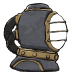
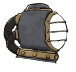
fix(crew): the heavy bell nods on a rubber gasket
The bell's dome, with its brass neck ring, hoses and the face behind
its glass, turns whole with the look about a new rubber gasket under the
ring; the shoulder piece stays on the torso and the gasket alone bends
between them. The bell is now three pictures (dome, shoulder piece,
gasket), so neither brass nor steel stretches; the lamp and scanner ride
on the dome. A bent picture's band may now be a helmet's own height.

Changed region(s): [[0.1053, 0.7778, 0.7895, 1.0]]

diff --git a/tools/anime-art/subjects/helmets.js b/tools/anime-art/subjects/helmets.js
@@ -44,6 +44,36 @@ function ringed(basic) {
   return { ball, collar: HeroKit.keep(HeroKit.part({ w: 13, h: 12, draw: basic.draw }), ring.d, Anime.LINE.outer) };
 }
 
+/** How far the bell's rubber gasket shows below its brass neck ring, in the head's pixels. */
+const GASKET = 0.9;
+
+/** A path moved down by dy: the tracer writes only absolute M, C and Z, so its numbers come in pairs. */
+const lowered = (d, dy) => {
+  let k = 0;
+  return d.replace(/-?\d*\.?\d+/g, (v) => String(k++ % 2 ? +(+v + dy).toFixed(3) : v));
+};
+
+/** Above this row of the head the bell is its dome, below it its shoulder piece, but for the brass neck ring and the gasket between. */
+const DOME = 10.9;
+
+/**
+ * The bell in three parts (helmets-fit-the-suit), so its dome nods on a rubber gasket as the basic helmet's ball on its seal: the
+ * dome with its brass neck ring and hoses; the shoulder piece, the ring's and the gasket's place left open in it; and the gasket,
+ * the ring's own shape and that shape lowered by GASKET, in the hoses' rubber, under the ring and showing below it.
+ */
+function belled(bell) {
+  const brass = bell.ops.filter((o) => o.mat === 'brass'), width = (o) => ((b) => b[2] - b[0])(bounds(o.d));
+  const ring = brass.reduce((a, b) => (width(b) > width(a) ? b : a)), low = lowered(ring.d, GASKET), rim = Anime.LINE.outer;
+  const top = `M-4 -4L17 -4L17 ${DOME}L-4 ${DOME}Z`, metal = brass.filter((o) => o.op !== 'line').map((o) => o.d);
+  const [shell, visor] = HeroKit.cut(bell.draw, bell.glass, []);
+  // The ink drawn on the ring, as its clasp's edge, goes with it.
+  const [rx0, ry0, rx1, ry1] = bounds(ring.d), inked = bell.ops.filter((o) => o.op === 'line' && ((b) => b[0] >= rx0 && b[2] <= rx1 && b[1] >= ry0 && b[3] <= ry1)(bounds(o.d))).map((o) => o.d);
+  HeroKit.within(shell, { keep: [top, ring.d], back: [...metal, ...inked] }, rim);
+  const collar = HeroKit.within(HeroKit.part({ w: 13, h: 12, draw: bell.draw }), { keep: ['M-4 -4L17 -4L17 17L-4 17Z'], drop: [top, ring.d, low, ...metal, ...inked] }, rim);
+  const seal = { ...ring, mat: 'tube', lite: [], d: ring.d + low };
+  return { shell, visor, collar, seal: HeroKit.part({ w: 13, h: 12, draw: Traced.drawer('heavyHelmet', [seal], bell.k) }) };
+}
+
 Subjects.helmets = function () {
   const basic = worn('helmet'), [, visor] = HeroKit.cut(basic.draw, basic.glass, []), { ball, collar } = ringed(basic);
   out('hero_helmet_shell', ball);
@@ -51,9 +81,11 @@ Subjects.helmets = function () {
   out('hero_visor', visor);
   out('hero_helmet', Anime.bake({ w: 13, h: 12, light: [0, -1], ...CARD, draw: basic.draw }));
   out('items/helmet', Traced.icon('helmet'));
-  const bell = worn('heavyHelmet'), [bellShell, bellVisor] = HeroKit.cut(bell.draw, bell.glass, []);
-  out('hero_heavyHelmet_shell', bellShell);
-  out('hero_heavyHelmet_visor', bellVisor);
+  const bell = belled(worn('heavyHelmet'));
+  out('hero_heavyHelmet_shell', bell.shell);
+  out('hero_heavyHelmet_visor', bell.visor);
+  out('hero_heavyHelmet_collar', bell.collar);
+  out('hero_heavyHelmet_seal', bell.seal);
   out('items/heavyHelmet', Traced.icon('heavyHelmet'));
 };
 

diff --git a/tools/anime-art/subjects/hero.js b/tools/anime-art/subjects/hero.js
@@ -893,7 +893,28 @@ function keep(c, d, rim = 0) {
   return c;
 }
 
+/**
+ * A part's picture c cut to a piece of its drawing (helmets-fit-the-suit): kept within the paths keep, less the paths drop, with
+ * the paths back in it again; each path filled on its own, so their windings never cut holes, and stroked rim wide to take its ink.
+ */
+function within(c, { keep = [], drop = [], back = [] }, rim = 0) {
+  const mask = canvas(c.width, c.height), m = mask.getContext('2d');
+  m.setTransform(Px, 0, 0, Px, Margin * Px, Margin * Px);
+  (m.lineWidth = rim), (m.lineJoin = 'round');
+  const paint = (ds) => ds.forEach((d) => { const p = new Path2D(d); m.fill(p); if (rim) m.stroke(p); });
+  paint(keep);
+  m.globalCompositeOperation = 'destination-out';
+  paint(drop);
+  m.globalCompositeOperation = 'source-over';
+  paint(back);
+  const x = c.getContext('2d');
+  x.globalCompositeOperation = 'destination-in';
+  x.drawImage(mask, 0, 0);
+  x.globalCompositeOperation = 'source-over';
+  return c;
+}
+
 // The kit, for a subject drawing more gear on the hero's boxes (catchergear.js).
-window.HeroKit = { limb, wedge, folds, mat, glove, boot, BACK_TORSO, GL, band, BST, BELL_BRASS, BELL_RUBBER, rustAt, hose, port, UNLIT, rivet, torsoDeep, part, lightPicture, cut, keep };
+window.HeroKit = { limb, wedge, folds, mat, glove, boot, BACK_TORSO, GL, band, BST, BELL_BRASS, BELL_RUBBER, rustAt, hose, port, UNLIT, rivet, torsoDeep, part, lightPicture, cut, keep, within };
 })();
 

diff --git a/game/features/crew/logic/BodyFit.cs b/game/features/crew/logic/BodyFit.cs
@@ -26,8 +26,12 @@ public enum HelmetTurn
 /// drawn over the near arm's shoulder while the rest stays under the arm. All in the helmet picture's pixels, its 13 × 12 box,
 /// the neck at <see cref="BodyFit.Neck"/>. With no cut, the collar is a picture of its own (<c>hero_&lt;helmet&gt;_collar</c>).
 /// Its shell's bottom fades out into the suit over the rows <paramref name="Fade"/>, whole at the first, none at the second, if given.
+/// A soft one bends in a <paramref name="Band"/> that tall round its pivot: what is above it turns whole, what is below stays. A
+/// <paramref name="Sealed"/> one has a rubber seal of its own between shell and collar (<c>hero_&lt;helmet&gt;_seal</c>), bent in
+/// that band as its shell turns: the bell's gasket.
 /// </summary>
-public sealed record HelmetFit(HelmetTurn Turn, double PivotX, double PivotY, double? Cut, (double Whole, double None)? Fade = null)
+public sealed record HelmetFit(
+    HelmetTurn Turn, double PivotX, double PivotY, double? Cut, (double Whole, double None)? Fade = null, double Band = BentLimb.Band, bool Sealed = false)
 {
     /// <summary>
     /// The angles its parts are turned by as the head looks <paramref name="look"/> (radians, as the figure turns its nodes), each
@@ -42,6 +46,12 @@ public sealed record HelmetFit(HelmetTurn Turn, double PivotX, double PivotY, do
         HelmetTurn.Ring => (look, look, 0, look),
         _ => (0, 0, 0, 0),
     };
+
+    /// <summary>
+    /// How far its seal (<see cref="Sealed"/>) is bent as the head looks <paramref name="look"/>, about the pivot in its
+    /// <see cref="Band"/>: as far as its shell turns over it, or with the rest of a soft one; its base stays with the collar.
+    /// </summary>
+    public double SealBy(double look) => TurnsBy(look) is var (_, shell, bend, _) ? shell + bend : 0;
 }
 
 /// <summary>How the suit's parts fit together where they meet (helmets-fit-the-suit): client art, not tunables.</summary>
@@ -58,6 +68,12 @@ public static class BodyFit
 
     /// <summary>The middle of the basic helmet's rubber seal (rows 10 to 13.5): it bends there, the ball nodding on it.</summary>
     public const double SealY = 11.75;
+
+    /// <summary>
+    /// The middle of the heavy bell's rubber gasket where it shows under its brass neck ring (tools/anime-art helmets.js,
+    /// <c>GASKET</c>), and the band it bends in: the dome and ring nod whole above it, the shoulder piece stays below.
+    /// </summary>
+    public const double GasketY = 11.8, GasketBand = 1.4;
 
     /// <summary>The head's middle (hero_head.png): a bolted helmet's head turns about it inside (<see cref="HelmetTurn.Bolted"/>), not out through the shell.</summary>
     private const double HeadX = 5.5, HeadY = 6.5;
@@ -78,8 +94,9 @@ public static class BodyFit
         [Stillwake.Content.Helmet.Basic] = new(HelmetTurn.Soft, NeckX, SealY, Cut: null),
         // The hood's last roll, under its plate, bends; its bottom fades into the suit rather than end in a line across it.
         [Stillwake.Content.Helmet.Quilted] = Hood with { Fade = (13.6, 14.6) },
-        // The bell's brass collar and shoulder piece over the arm; the piece's straight edge, cut by its reference, fades out.
-        [Stillwake.Content.Helmet.Heavy] = new(HelmetTurn.Bolted, HeadX, HeadY, Cut: 11, Fade: (13.8, 15)),
+        // The dome nods whole with its brass ring on its rubber gasket, which bends, as the basic helmet's ball on its seal; its
+        // shoulder piece stays, over the arm, its straight edge, cut by its reference, fading out.
+        [Stillwake.Content.Helmet.Heavy] = new(HelmetTurn.Ring, NeckX, GasketY, Cut: null, Fade: (13.8, 15), Band: GasketBand, Sealed: true),
         ["catcherHood"] = Hood,
         ["catcherCap"] = Hood,
         ["catcherBeak"] = Hood,
@@ -103,7 +120,7 @@ public static class BodyFit
     /// <summary><paramref name="helmet"/>'s <paramref name="fit"/> turning <paramref name="turn"/>, about the pivot that way takes.</summary>
     private static HelmetFit As(string helmet, HelmetFit fit, HelmetTurn turn) => turn == fit.Turn ? fit : turn switch
     {
-        HelmetTurn.Soft => fit with { Turn = turn, PivotX = NeckX, PivotY = SoftY },
+        HelmetTurn.Soft => fit with { Turn = turn, PivotX = NeckX, PivotY = SoftY, Band = BentLimb.Band },
         HelmetTurn.Ring when helmet == Stillwake.Content.Helmet.Basic => fit with { Turn = turn, PivotX = BallX, PivotY = BallY },
         HelmetTurn.Ring => fit with { Turn = turn, PivotX = NeckX, PivotY = NeckY },
         _ => fit with { Turn = turn, PivotX = HeadX, PivotY = HeadY },
@@ -130,7 +147,8 @@ public static class BodyFit
         string name = picture.EndsWith("_lit", StringComparison.Ordinal) ? picture[..^4] : picture;
         if (name == "upperArm" || name.EndsWith("_upperArm", StringComparison.Ordinal))
             return Receivers.Contains(name.Length > 9 ? name[..^9] : "") ? null : Shoulder;
-        return name.EndsWith("_shell", StringComparison.Ordinal) && Fits.TryGetValue(name[..^6], out var fit) ? fit.Fade : null;
+        string? helmet = name.EndsWith("_shell", StringComparison.Ordinal) ? name[..^6] : name.EndsWith("_collar", StringComparison.Ordinal) ? name[..^7] : null;
+        return helmet != null && Fits.TryGetValue(helmet, out var fit) ? fit.Fade : null;
     }
 
     /// <summary>How much of a row <paramref name="y"/> shows, fading from whole at <paramref name="whole"/> to none at <paramref name="none"/>, smoothly.</summary>

diff --git a/game/features/crew/logic/BentLimb.cs b/game/features/crew/logic/BentLimb.cs
@@ -37,7 +37,7 @@ public sealed class BentLimb
     /// <summary>No seam: a lower picture drawn whole from its top, as a soft helmet's are (helmets-fit-the-suit).</summary>
     public static readonly (double From, double To) Seamless = (double.NegativeInfinity, double.PositiveInfinity);
 
-    private readonly double _joint;
+    private readonly double _joint, _band;
     private readonly bool _lower;
     private readonly Vec[] _rest;
 
@@ -63,9 +63,10 @@ public sealed class BentLimb
     /// <param name="joint">Where the elbow or knee is down the frame: the upper bone's length for an upper picture, 0 for a lower one.</param>
     /// <param name="lower">Whether the picture hangs from the lower bone (forearm, shin) rather than the upper.</param>
     /// <param name="seam">Where the pictures meet, from and to, pixels down from the joint (<see cref="SeamOf"/>).</param>
-    public BentLimb(double left, double top, double width, double height, double joint, bool lower, (double From, double To) seam)
+    /// <param name="band">How tall the band it bends in is, pixels: <see cref="Band"/> for a limb, a helmet's own for its seal (helmets-fit-the-suit).</param>
+    public BentLimb(double left, double top, double width, double height, double joint, bool lower, (double From, double To) seam, double band = Band)
     {
-        (_joint, _lower) = (joint, lower);
+        (_joint, _lower, _band) = (joint, lower, band);
         double from = lower ? Math.Max(top, joint + seam.From) : top, to = lower ? top + height : Math.Min(top + height, joint + seam.To);
         if (to <= from) (from, to) = (top, top);
         var rows = new List<double> { from, to };
@@ -73,7 +74,7 @@ public sealed class BentLimb
             if (y > from && y < to && !rows.Contains(y)) rows.Add(y);
         for (int i = 0; i < BandRows; i++)
         {
-            double y = joint - Band / 2 + Band * i / (BandRows - 1);
+            double y = joint - band / 2 + band * i / (BandRows - 1);
             if (y > from && y < to && !rows.Contains(y)) rows.Add(y);
         }
         rows.Sort();
@@ -109,14 +110,14 @@ public sealed class BentLimb
     {
         if (Bent == bend) return false;
         Bent = bend;
-        for (int i = 0; i < _rest.Length; i++) Points[i] = Warp(_rest[i], _joint, bend, _lower);
+        for (int i = 0; i < _rest.Length; i++) Points[i] = Warp(_rest[i], _joint, bend, _lower, _band);
         return true;
     }
 
-    /// <summary>How much of the bend a row <paramref name="along"/> pixels below the joint takes: none above the band, all below it, smoothly between.</summary>
-    public static double Share(double along)
+    /// <summary>How much of the bend a row <paramref name="along"/> pixels below the joint takes: none above the <paramref name="band"/>, all below it, smoothly between.</summary>
+    public static double Share(double along, double band = Band)
     {
-        double t = Math.Clamp(along / Band + 0.5, 0, 1);
+        double t = Math.Clamp(along / band + 0.5, 0, 1);
         return t * t * (3 - 2 * t);
     }
 
@@ -125,9 +126,9 @@ public sealed class BentLimb
     /// <paramref name="joint"/> down its frame: turned about the joint as the figure's nodes turn, clockwise; in the upper bone's
     /// frame by its <see cref="Share"/> of the bend, in the lower one's back by the rest of it.
     /// </summary>
-    public static Vec Warp(Vec rest, double joint, double bend, bool lower)
+    public static Vec Warp(Vec rest, double joint, double bend, bool lower, double band = Band)
     {
-        double share = Share(rest.Y - joint);
+        double share = Share(rest.Y - joint, band);
         double turn = lower ? (1 - share) * bend : -share * bend;
         double c = Math.Cos(turn), s = Math.Sin(turn), y = rest.Y - joint;
         return new Vec(rest.X * c - y * s, joint + rest.X * s + y * c);

diff --git a/game/features/crew/Figure.cs b/game/features/crew/Figure.cs
@@ -113,7 +113,9 @@ public partial class Figure : Node2D
     private const double ScannerDotMs = 220;
     private bool _scannerWorn;
     /// <summary>The parts shown by what is worn: the air pack with the body; the helmet's shell and glass, else the hair and beard.</summary>
-    private readonly Sprite2D _pack, _shell, _visor, _collarPart, _hair, _beard, _headPart, _facePart;
+    private readonly Sprite2D _pack, _shell, _visor, _collarPart, _seal, _hair, _beard, _headPart, _facePart;
+    /// <summary>A sealed helmet's rubber seal, under its shell, bent as the shell turns (<see cref="HelmetFit.Sealed"/>).</summary>
+    private readonly BentPicture _sealBent;
     /// <summary>The head and face again, added unlit under the helmet's glass while its lamp is on: the face lit by its spill.</summary>
     private readonly Sprite2D _headLit, _faceLit;
     private readonly Node2D _faceLight;
@@ -333,9 +335,11 @@ public partial class Figure : Node2D
         (_beard, _hair) = (Part("beard", joint: "hair"), Part("hair", joint: "hair"));
         (_shell, _visor, _collarPart) = (Part("shell", joint: "helmet"), Part("visor", joint: "helmet"), Part("collar", joint: "helmet"));
         _helmetPictures = [Bent(_headPart), Bent(_facePart), Bent(_headLit), Bent(_faceLit), Bent(_shell), Bent(_visor), Bent(_collarPart)];
+        _seal = Part("seal", joint: "helmet");
+        _sealBent = Bent(_seal);
         foreach (var n in new Node2D[] { _headPart, _facePart, _faceLight, _beard, _hair }) _face.AddChild(n);
         foreach (var n in new Node2D[] { _shell, _visor }) _shellTurn.AddChild(n);
-        foreach (var n in new Node2D[] { _face, _shellTurn, _crown }) _helmet.AddChild(n);
+        foreach (var n in new Node2D[] { _face, _seal, _shellTurn, _crown }) _helmet.AddChild(n);
         _collar.AddChild(_collarPart);
         _crown.AddChild(_eyes);
         Gives(_eyes, _eyesGlow);
@@ -862,7 +866,8 @@ public partial class Figure : Node2D
         (_fit, _trial) = (BodyFit.Of(helmet), BodyFit.Trial);
         _pivot = new Vector2((float)(_fit.PivotX - BodyFit.NeckX), (float)(_fit.PivotY - BodyFit.NeckY));
         // A soft one bends about its pivot; any other is never bent, so where its band would be does not matter.
-        foreach (var picture in _helmetPictures) picture.Joint = _pivot.Y;
+        foreach (var picture in (BentPicture[])[.. _helmetPictures, _sealBent]) (picture.Joint, picture.Band) = (_pivot.Y, _fit.Band);
+        _seal.Visible = helmet != null && _fit.Sealed;
         double cut = _fit.Cut ?? double.PositiveInfinity;
         Rows(_shell, double.NegativeInfinity, cut);
         Rows(_visor, double.NegativeInfinity, cut);
@@ -904,6 +909,8 @@ public partial class Figure : Node2D
         // A collar of its own (helmets-fit-the-suit), else the shell's rows from its cut.
         "collar" when BodyFit.Of(_helmetWorn).Cut == null => $"{_helmetWorn}_collar",
         "collar" => PictureOf("shell"),
+        "seal" when BodyFit.Of(_helmetWorn).Sealed => $"{_helmetWorn}_seal",
+        "seal" => PictureOf("shell"),
         _ => part,
     };
 
@@ -1388,6 +1395,7 @@ public partial class Figure : Node2D
         _shellTurn.Transform = Turned(shell);
         _crown.Transform = Turned(crown);
         foreach (var picture in _helmetPictures) picture.Show(bend, BentLimb.Seamless);
+        _sealBent.Show(_fit.SealBy(_gaze), BentLimb.Seamless);
         // The sheet is in the front hand, tilted to face the eyes: up toward them looking up, flatter
         // looking down at it.
         _plan.Visible = holding;

diff --git a/game.tests/BodyFitTests.cs b/game.tests/BodyFitTests.cs
@@ -34,7 +34,33 @@ public class BodyFitTests
     {
         Assert.Equal(HelmetTurn.Soft, BodyFit.Of(Stillwake.Content.Helmet.Basic).Turn);
         Assert.Equal(HelmetTurn.Soft, BodyFit.Of(Stillwake.Content.Helmet.Quilted).Turn);
-        Assert.Equal(HelmetTurn.Bolted, BodyFit.Of(Stillwake.Content.Helmet.Heavy).Turn);
+        Assert.Equal(HelmetTurn.Ring, BodyFit.Of(Stillwake.Content.Helmet.Heavy).Turn);
+    }
+
+    [Fact]
+    public void TheBellsDomeNodsWholeOnItsGasketWhichAloneBends()
+    {
+        var fit = BodyFit.Of(Stillwake.Content.Helmet.Heavy);
+        // Its dome turns about the gasket's middle, its own shoulder piece the collar; the gasket is its own picture.
+        Assert.Equal((BodyFit.NeckX, BodyFit.GasketY, BodyFit.GasketBand, (double?)null, true), (fit.PivotX, fit.PivotY, fit.Band, fit.Cut, fit.Sealed));
+        double joint = fit.PivotY - BodyFit.NeckY;
+        foreach (double look in Looks)
+        {
+            var (face, shell, bend, crown) = fit.TurnsBy(look);
+            // The face, lamp and scanner go with the dome; nothing of the dome or shoulder piece is bent.
+            Assert.Equal((look, look, 0d, look), (face, shell, bend, crown));
+            double seal = fit.SealBy(look), c = Math.Cos(shell), s = Math.Sin(shell);
+            for (double x = -7; x <= 7; x += 1.75)
+            {
+                // The gasket's top turns as the dome over it does, about the same pivot; its base stays with the shoulder piece.
+                var high = new Vec(x, joint - fit.Band / 2 - 0.05);
+                double y = high.Y - joint;
+                Near(new Vec(x * c - y * s, joint + x * s + y * c), BentLimb.Warp(high, joint, seal, lower: true, fit.Band));
+                var low = new Vec(x, joint + fit.Band / 2 + 0.05);
+                Near(low, BentLimb.Warp(low, joint, seal, lower: true, fit.Band));
+            }
+        }
+        Assert.Equal(fit.Fade, BodyFit.FadeOf("heavyHelmet_collar"));
     }
 
     [Theory]
@@ -115,7 +141,7 @@ public class BodyFitTests
         {
             BodyFit.Trial = null;
         }
-        Assert.Equal(HelmetTurn.Bolted, BodyFit.Of(Stillwake.Content.Helmet.Heavy).Turn);
+        Assert.Equal(HelmetTurn.Ring, BodyFit.Of(Stillwake.Content.Helmet.Heavy).Turn);
     }
 
     [Fact]

diff --git a/game/features/crew/BentPicture.cs b/game/features/crew/BentPicture.cs
@@ -10,7 +10,7 @@ namespace Stillwake.Game.Features.Crew;
 public partial class BentPicture : Node2D
 {
     private readonly Sprite2D _source;
-    private double _joint;
+    private double _joint, _band = BentLimb.Band;
     private readonly bool _lower;
     private BentLimb? _mesh;
     private Texture2D? _texture;
@@ -41,6 +41,18 @@ public partial class BentPicture : Node2D
         }
     }
 
+    /// <summary>How tall the band it bends in is (<see cref="BentLimb"/>): changed, the grid is made again at the next <see cref="Show"/>.</summary>
+    public double Band
+    {
+        get => _band;
+        set
+        {
+            if (value == _band) return;
+            _band = value;
+            _texture = null;
+        }
+    }
+
     /// <summary>Drawn bent <paramref name="bend"/>, the limb's <see cref="Bend.Lower"/>, meeting the limb's other picture at <paramref name="seam"/> (<see cref="BentLimb.SeamOf"/>).</summary>
     public void Show(double bend, (double From, double To) seam)
     {
@@ -56,7 +68,7 @@ public partial class BentPicture : Node2D
     private void Remake(Texture2D? texture, Rect2 cut, (double From, double To) seam)
     {
         (_texture, _cut, _seam) = (texture, cut, seam);
-        _mesh = texture == null ? null : new BentLimb(cut.Position.X, cut.Position.Y, cut.Size.X, cut.Size.Y, _joint, _lower, seam);
+        _mesh = texture == null ? null : new BentLimb(cut.Position.X, cut.Position.Y, cut.Size.X, cut.Size.Y, _joint, _lower, seam, _band);
         int n = _mesh?.Points.Length ?? 0;
         (_points, _uvs, _colours) = (new Vector2[n], new Vector2[n], new Color[n]);
         if (_mesh == null || texture == null) return;

diff --git a/docs/decisions/2026-11-14-helmets-fit-the-suit.md b/docs/decisions/2026-11-14-helmets-fit-the-suit.md
@@ -18,8 +18,15 @@ down tipped the whole helmet, collar and all, about the neck; and the collars en
   - `quiltedHelmet`, `catcherHood`, `catcherCap`, `catcherBeak` **soft**: the top with its plate or mask turns, the base stays on
     the shoulders, the cloth between bends as a limb does at its joint ([bent-limbs](2026-11-14-bent-limbs.md)), one pixel below
     the neck so a plate over the chin turns whole. The head and face inside bend with it, so none shows through the cloth.
-  - `heavyHelmet`, `catcherHelm` **bolted**: never turns; the face inside turns about the head's middle, and the lamp's beam
-    aims where the hero looks.
+  - `heavyHelmet` **nods on its gasket**: the dome, with its brass neck ring, hoses and the face behind its glass, turns whole
+    with the look (a `Ring` fit) about the middle of a rubber gasket under the ring (row 11.8); the shoulder piece stays on the
+    torso, and the gasket alone bends between them, in a band 1.4 px tall (`HelmetFit.Sealed`, `SealBy`). The bell had no soft
+    part, so the gasket is new art: the ring's own shape and that shape lowered 0.9 px, in the bell's hose rubber, drawn by the
+    engine under the ring (tools/anime-art helmets.js, `belled`). The bell is three pictures, `hero_heavyHelmet_shell` (the dome),
+    `_collar` (the shoulder piece, the ring's and the gasket's place left open) and `_seal`, so neither brass nor steel stretches.
+    (It was first **bolted**, the face turning inside; see the verdict below.)
+  - `catcherHelm` **bolted**: never turns; the face inside turns about the head's middle, and the lamp's beam aims where the
+    hero looks.
   - Bare, or any helmet with no fit: turns whole about the neck, as before.
 - **Two layers.** The upper part (shell and glass above the fit's cut) is drawn under the near arm, so a raised hand passes in
   front of the face; the lower part (the shell's rows from the cut, or the basic helmet's own `hero_helmet_collar`) is fixed with
@@ -40,8 +47,12 @@ disliked too; the quilted hood "connects well to everything" and stays as it is.
 the bell, keeping the face still behind the glass, only the beam looking, was offered and judged worse still: the bell keeps its
 face turning until a way is found, perhaps after the basic helmet's example.
 
+The soft basic helmet was loved in play (PR 579): "ооо, вот это отлично!", and the bell was asked to move the same way. A soft
+bend of the bell itself stretched its brass ring and shoulder piece where they lifted apart, the ring's edge not level; so its dome
+turns rigidly and only its new gasket bends.
+
 **F8 in any dev run** (`game/dev/HelmetTurnKey.cs`, `BodyFit.Trial`) turns every helmet worn the next way the code has, named in a
-corner: soft, bolted (the face turning), the ball on a ring, bolted with the face still (`BoltedStill`), then each its own again.
+corner: soft, bolted (the face turning), on a ring, bolted with the face still (`BoltedStill`), then each its own again.
 A soft trial bends about one pixel below the neck, a ring about the basic helmet's ball or the neck, a bolted one about the head.
 
 ## Cost

diff --git a/tools/anime-art/README.md b/tools/anime-art/README.md
@@ -54,7 +54,7 @@ finish is `wash.js`, one for every subject; a drawing follows these rules.
 | `net` | `machine_net` (booms), `net_mount`, `net_front_<n>` (holding n); `NetInk.cs` |
 | `bay`, `salvage` | `machine_droneBay`, `droneBay_*`, `salvage_*`, `items/salvageDrone`; `BayInk.cs`, `SalvageInk.cs` |
 | `scanner` | `hero_scanner`, `hero_<helmet>_scanner`, `_lit_<n>`, `items/scanner`; `ScannerInk.cs` |
-| `helmets`, `quilted`, `heatSuit` | traced: `hero_<helmet>_shell`, `_visor` (basic: `_collar`, `hero_visor`, `hero_helmet` the lamp card), `items/<id>`; `hero_heatSuit_<part>` |
+| `helmets`, `quilted`, `heatSuit` | traced: `hero_<helmet>_shell`, `_visor` (`_collar`; bell `_seal`; `hero_visor`, card `hero_helmet`), `items/<id>`; `hero_heatSuit_<part>` |
 | `charge`, `missile` | `hero_blastCharge` (`icons/` lit), `shot_blastCharge_spark`: its fuse in flight; `shot_missile` |
 | `edgekeys` | `holo_<key>`, `_glow`: the edge keys' masks |
 | `signs`, `credit`, `capsule`, `gauge` | `sign_*`: bolts, plug, wrench, tips; `credit`, the chip; `capsule`, `capsule_flame_<n>`; `gauge_*`, the vitals' light |
